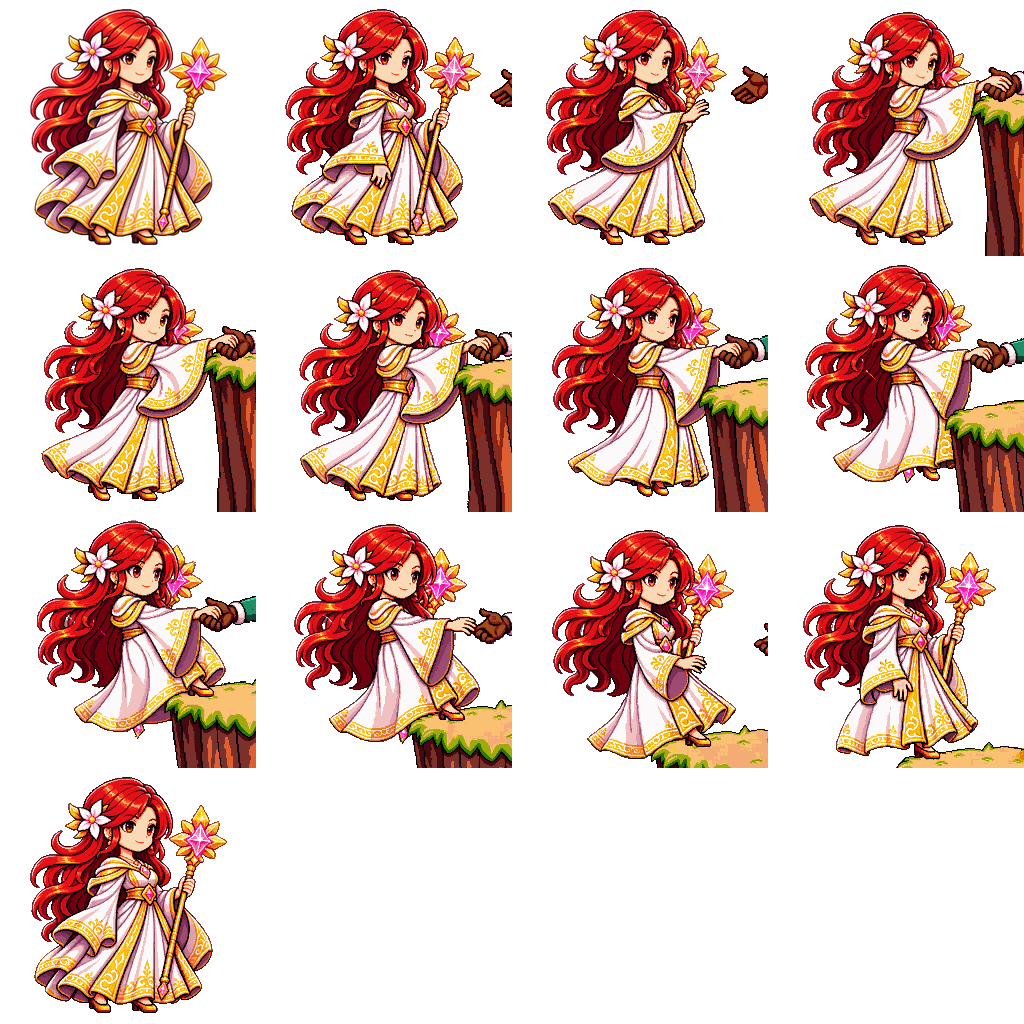
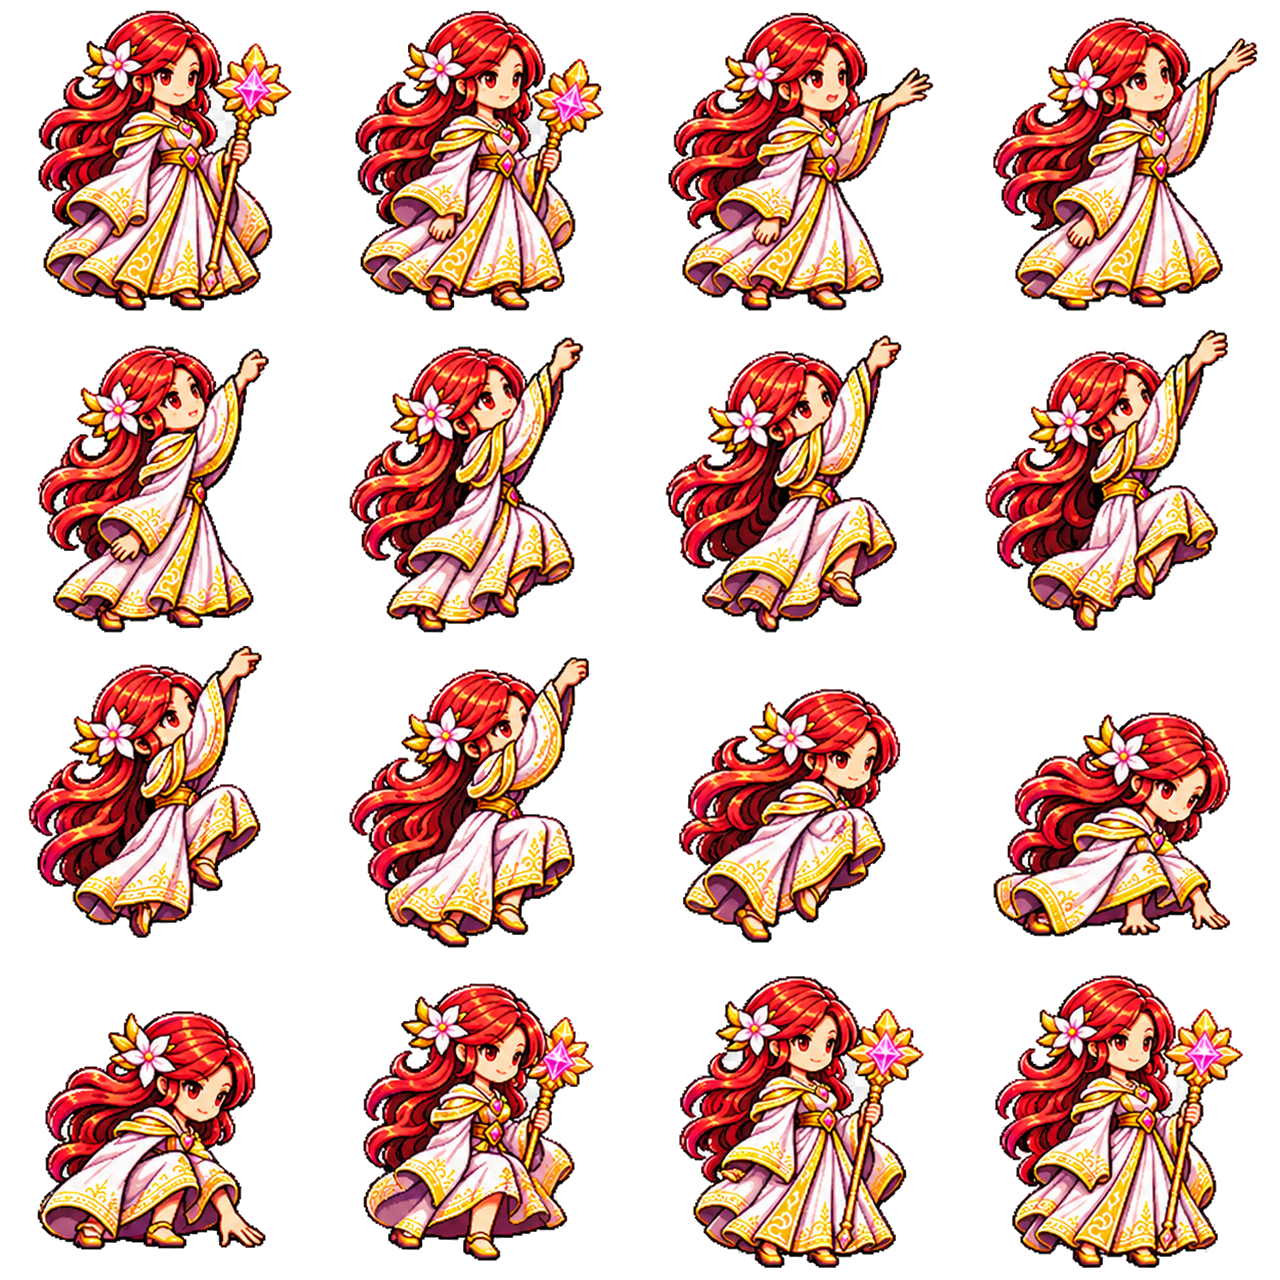
Fix sprite limpio, salto 4x4, agachado y ancla

diff --git a/index.html b/index.html
@@ -697,7 +697,12 @@ update(dt, idle) {
 if (idle) { this.frame = 0; this.acc = 0; return; }
 const speed = ANIM_CONFIG.fps * (this.key === 'desanclar' ? 2.2 : 1);
 this.acc += dt; const spf = 1 / speed;
-while (this.acc >= spf) { this.acc -= spf; this.frame = (this.frame + 1) % ANIM_CONFIG.totalFrames; }
+const once = (this.key === 'anclar' || this.key === 'desanclar');
+    while (this.acc >= spf) {
+      this.acc -= spf;
+      if (once) this.frame = Math.min(ANIM_CONFIG.totalFrames - 1, this.frame + 1);
+      else this.frame = (this.frame + 1) % ANIM_CONFIG.totalFrames;
+    }
 }
 }
 
@@ -1311,10 +1316,10 @@ ctx.translate(cx, feet); ctx.scale(p.facing * sx, sy);
 if (p.anim.key === 'colgado') ctx.rotate(Math.sin(t * 3) * 0.06 + clamp(p.vx * 0.0004, -0.2, 0.2));
 if (entry && entry.ready) {
 const img = entry.img;
-const frameWidth = img.width / Math.max(1, Math.round((img.naturalWidth || img.width) / 256));
-const frameHeight = img.height / Math.max(1, Math.round((img.naturalHeight || img.height) / 256));
-const col = p.anim.frame % Math.max(1, Math.round((img.naturalWidth || img.width) / 256)), row = Math.floor(p.anim.frame / Math.max(1, Math.round((img.naturalWidth || img.width) / 256)));
-const dh = p.h + 6, dw = dh * (frameWidth / frameHeight);
+const frameWidth = img.width / 4;
+const frameHeight = img.height / ((img.naturalHeight || img.height) < (img.naturalWidth || img.width) ? 3 : 4);
+const col = p.anim.frame % 4, row = Math.floor(p.anim.frame / 4);
+const dh = PHYS.hStand + 6, dw = dh * (frameWidth / frameHeight);
 ctx.drawImage(img, col * frameWidth, row * frameHeight, frameWidth, frameHeight, -dw / 2, -dh, dw, dh);
 } else {
 drawFallbackBody(p, t);
